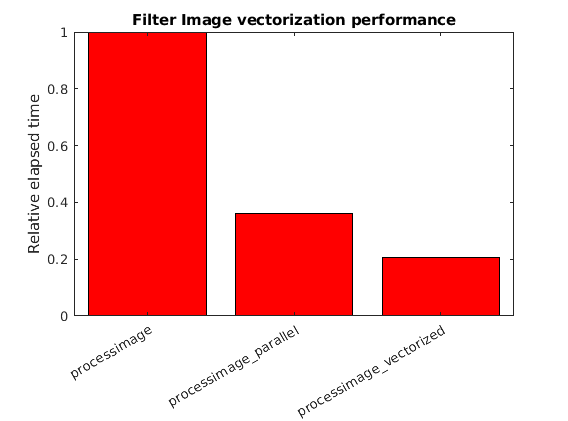
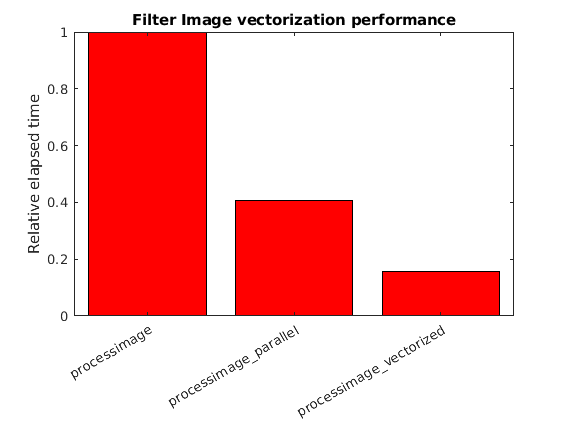
Some fixes found during speaking note preparation

Changed region(s): [[0.6585, 0.5867, 0.8979, 0.6485], [0.3891, 0.4632, 0.6285, 0.5249]]

diff --git a/code/imagefilter/processimage_parallel.m b/code/imagefilter/processimage_parallel.m
@@ -2,24 +2,28 @@
 
 width = size(img,1);
 height = size(img,2);
-img = reshape(img, [width*height, 3]);
+red = img(:,:,1);
+green = img(:,:,2);
+blue = img(:,:,3);
 
-for i = 1:length(img)
+parfor i = 1:numel(red)
     % Convert this pixel to greyscale
-    grey =  (double(img(i,1)) + double(img(i,2)) + double(img(i,3)))/3;
+    grey = (double(red(i)) + double(green(i)) + double(blue(i)))/3;
     
     % If it is a light pixel, change the blue channel to make
     % it yellow
     % Otherwise the pixel will be grey
+    red(i) = grey;
+    green(i) = grey;
     if grey > 167
-        img(i,1) = grey;
-        img(i,2) = grey;
-        img(i,3) = 255 - grey;
+        blue(i) = 255-grey;
     else
-        img(i,1) = grey;
-        img(i,2) = grey;
-        img(i,3) = grey;
+        blue(i) = grey;
     end
 end
 
-img = reshape(img, [width, height, 3]);
+img(:,:,1) = red;
+img(:,:,2) = green;
+img(:,:,3) = blue;
+
+%img = reshape(img, [width, height, 3]);

diff --git a/code/parallel_slow/sinecalc.m b/code/parallel_slow/sinecalc.m
@@ -1,9 +1,13 @@
 % Code adapted from https://www.mathworks.com/help/distcomp/decide-when-to-use-parfor.html
+tic;
 n = 10240;
 n = 2E4;
 
 %% Sequential Version
+
 A = zeros(n);
 for i = 1:n
     A(i,:) = (1:n) .* sin(i*2*pi/1024);
 end
+
+toc;

diff --git a/code/parallel_slow/sinecalc_parallel.m b/code/parallel_slow/sinecalc_parallel.m
@@ -1,4 +1,5 @@
 % Code adapted from https://www.mathworks.com/help/distcomp/decide-when-to-use-parfor.html
+tic;
 n = 10240;
 n = 2E4;
 
@@ -9,3 +10,4 @@ parfor (i = 1:n)
     A(i,:) = (1:n) .* sin(i*2*pi/1024);
 end
 %tocBytes(gcp)
+toc;

diff --git a/code/parallel_fast/spectral_radius.m b/code/parallel_fast/spectral_radius.m
@@ -2,8 +2,10 @@
 tic;
 n = 200;
 A = 500;
+
 a = zeros(1,n);
 for i = 1:n
     a(i) = max(abs(eig(rand(A))));
 end
+
 toc;

diff --git a/_episodes/07-matlab-examples.md b/_episodes/07-matlab-examples.md
@@ -44,7 +44,7 @@ There is an dependency for the current prefix sum element on the previous one.  
 
 ## Parallel MATLAB performance
 
-Here is another example of a parallel loop.  This [fast parallel code](../code/parallel_fast/spectral_radius.m) obtains appreciable speedup vs the original [sequential code](../code/parallel_slow/sinecalc.m):
+Here is another example of a parallel loop.  This [fast parallel code](../code/parallel_fast/spectral_radius_parallel.m) obtains appreciable speedup vs the original [sequential code](../code/parallel_fast/spectral_radius.m):
 ~~~
 n = 200;
 A = 500;
